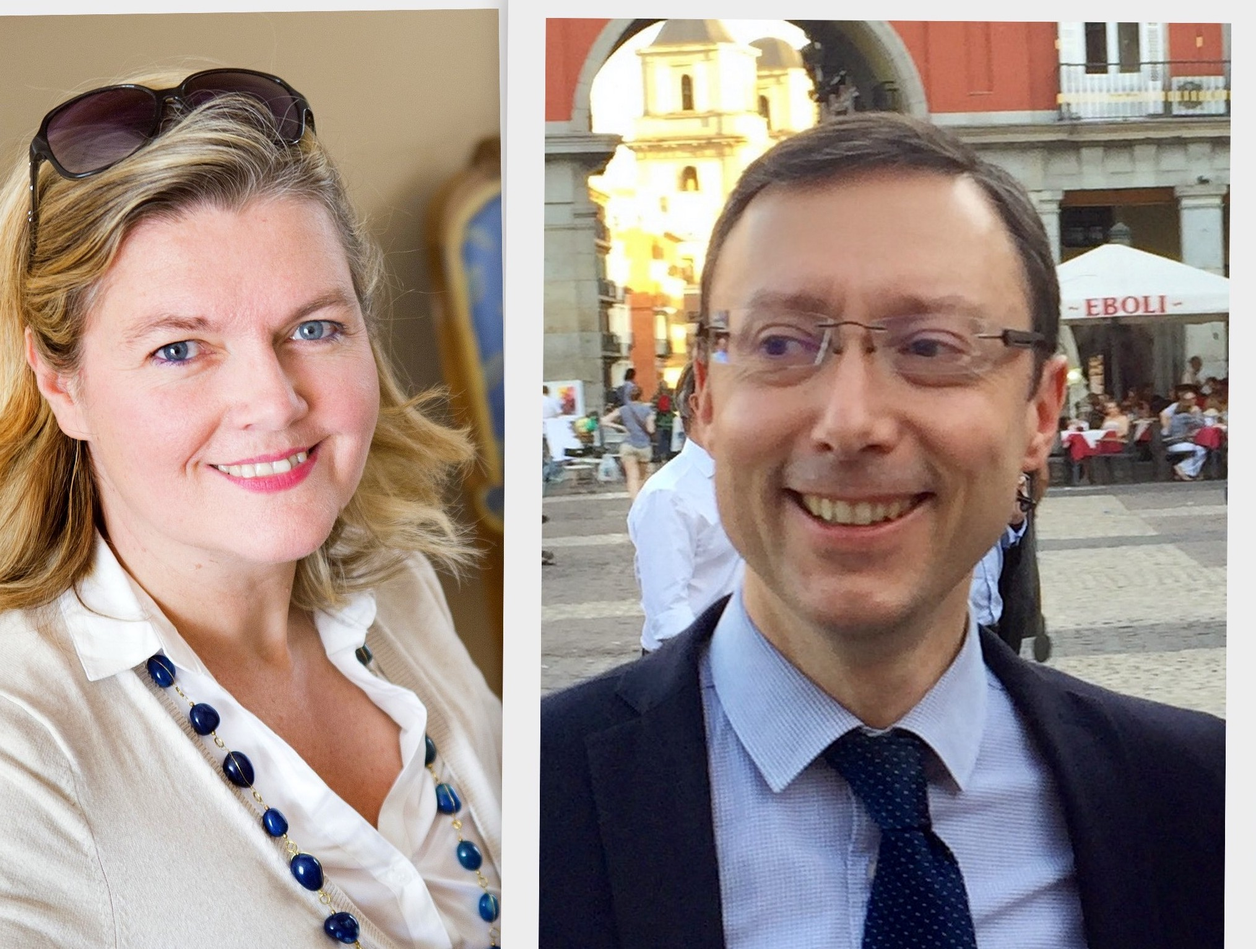
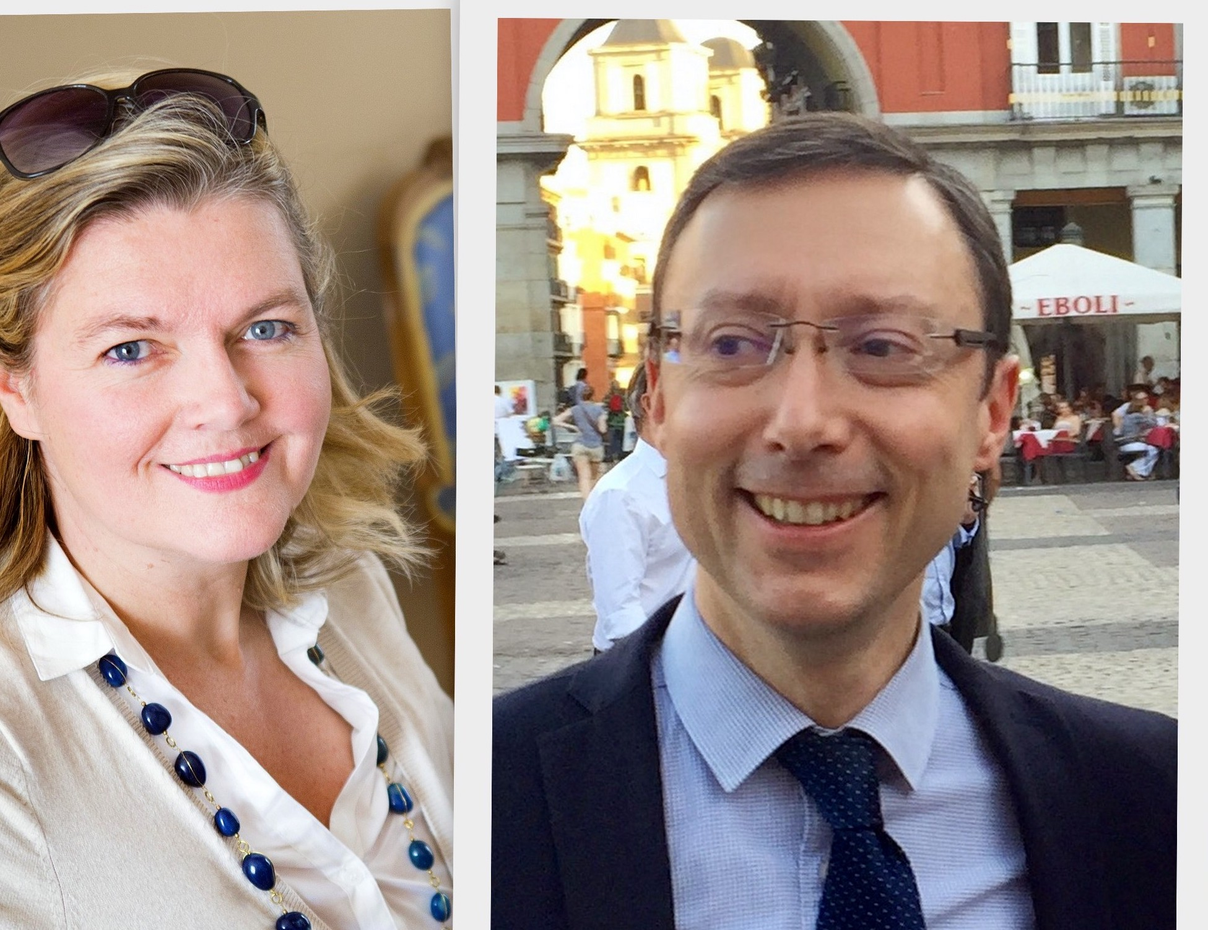
claire

diff --git a/app/assets/stylesheets/speakers.scss b/app/assets/stylesheets/speakers.scss
@@ -147,7 +147,7 @@
 
 .speakers-img-height {
   height: 250px;
-  width: 270px;
+  width: 250px;
   border-radius: 50%;
   margin-left: auto;
   margin-right: auto;
